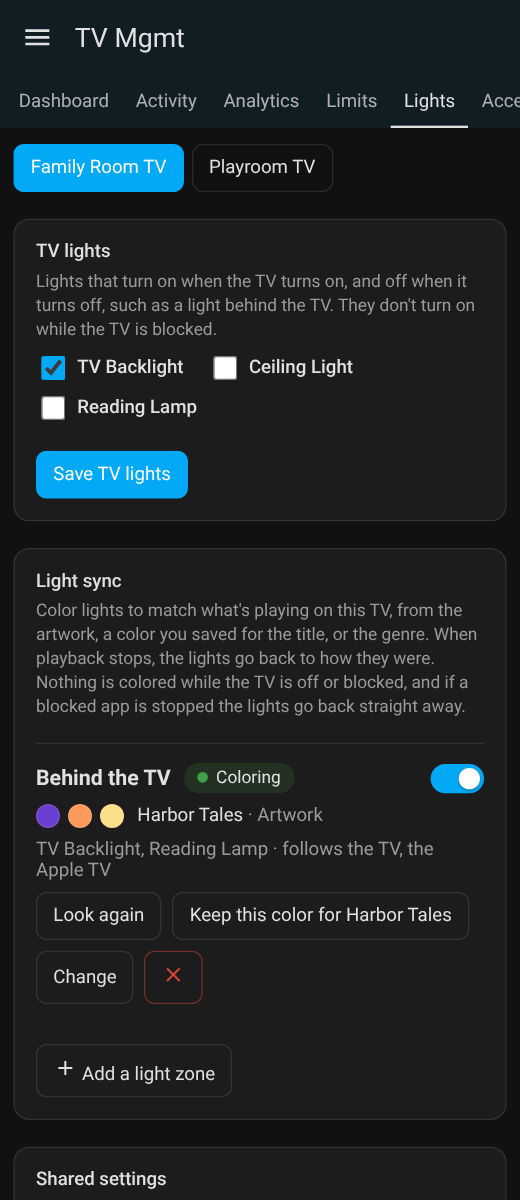
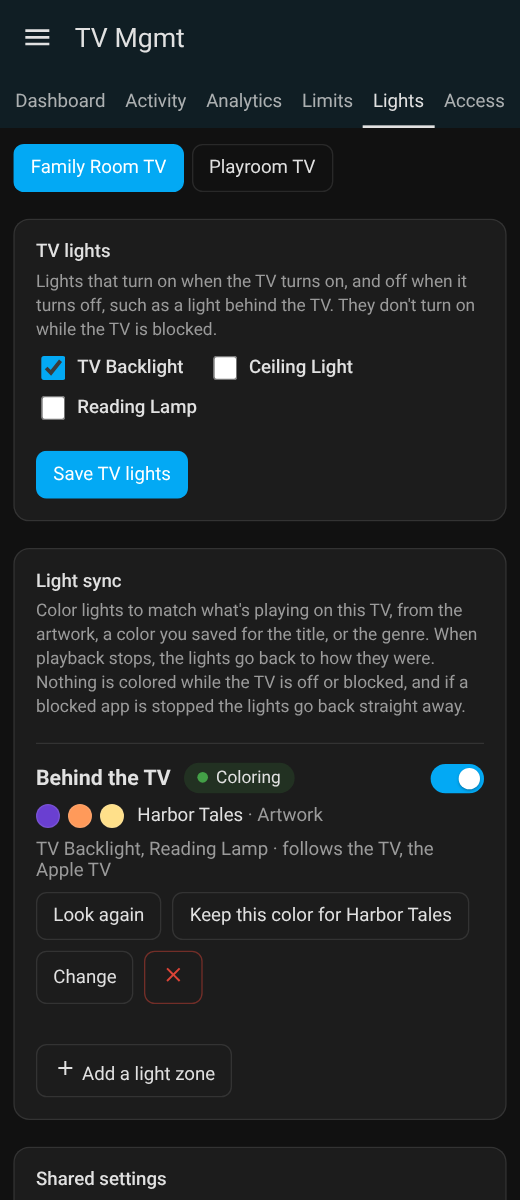
Fit all six tabs on a phone; retake every README screenshot
On phones the tabs now share the width with tighter padding, so Dashboard
through Access fit from 375px wide; narrower they still scroll, and the open
tab is scrolled into view. shoot.py --docs retakes panel-<tab>.png for all six
tabs the same way (admin view, 390x900 at 4/3), and the README shows them in
two rows: light theme, then dark.

Changed region(s): [[0.4, 0.0617, 1.0, 0.0925], [0.0308, 0.0617, 0.2154, 0.0925], [0.2462, 0.0617, 0.3692, 0.0925]]

diff --git a/custom_components/tv_mgmt/frontend/tv-mgmt-panel.js b/custom_components/tv_mgmt/frontend/tv-mgmt-panel.js
@@ -300,7 +300,8 @@ nav button {
   border-bottom: 2px solid transparent; white-space: nowrap; font-size: 14px;
 }
 nav button[aria-selected="true"] { opacity: 1; border-bottom-color: currentColor; }
-@media (max-width: 420px) { nav { gap: 0; padding: 0 4px; } nav button { padding: 12px 10px 10px; } }
+/* Phones: tighter tabs share the width, so all six fit from 375px; narrower, they scroll. */
+@media (max-width: 420px) { nav { gap: 0; padding: 0 4px; } nav button { flex: 1 0 auto; padding: 12px 6px 10px; } }
 nav button:focus-visible, .btn:focus-visible, .seg button:focus-visible, .chip:focus-visible, input:focus-visible {
   outline: 2px solid var(--primary-color); outline-offset: 2px;
 }
@@ -984,6 +985,14 @@ class TvMgmtPanel extends HTMLElement {
     const main = this.shadowRoot.getElementById("main");
     if (!main) return;
     this.shadowRoot.querySelectorAll("nav button").forEach((b) => b.setAttribute("aria-selected", String(b.dataset.tab === this._tab)));
+    if (this._navShown !== this._tab) {
+      // Where the tabs scroll (narrow phones), keep the open one in view.
+      const current = this.shadowRoot.querySelector(`nav button[data-tab="${this._tab}"]`);
+      if (current) {
+        this._navShown = this._tab;
+        current.scrollIntoView({ block: "nearest", inline: "nearest" });
+      }
+    }
 
     let body;
     if (this._tab === "access") {

diff --git a/scripts/panel-preview/shoot.py b/scripts/panel-preview/shoot.py
@@ -11,10 +11,10 @@ empty=1 (no TVs), denied=1 (a user without access), nohome=1 (no whole-home limi
 request stays loading) and loading=tabs (the TVs load, each tab's data stays
 loading), to see the placeholders; saved as loading-*.png.
 
-With --docs, it instead refreshes the README screenshot of the Lights tab,
-docs/images/panel-lights.png: dark theme, 390x900 at 4/3 scale (520x1200),
-like the other docs/images/panel-*.png. Set CHROME to a Chrome or Chromium
-binary to use it instead of Playwright's own.
+With --docs, it instead refreshes the README screenshots, docs/images/panel-<tab>.png
+for every tab (DOC_SHOTS): an admin's view, so all six tabs show, at 390x900 and 4/3
+scale (520x1200). Set CHROME to a Chrome or Chromium binary to use it instead of
+Playwright's own.
 """
 
 from functools import partial
@@ -36,19 +36,37 @@ class _QuietHandler(SimpleHTTPRequestHandler):
 TABS = ["dashboard", "activity", "analytics", "limits", "lights", "access"]
 SIZES = {"phone": (390, 900), "desktop": (1440, 1000)}
 DOCS = ROOT / "docs" / "images"
+# README screenshots, docs/images/panel-<tab>.png: the first row light, the
+# second dark, so both themes show.
+DOC_SHOTS = {
+    "dashboard": "light", "activity": "light", "analytics": "light",
+    "limits": "dark", "lights": "dark", "access": "dark",
+}
 
 
 def _docs(browser, base: str, errors: list[str]) -> None:
-    """Save the Lights tab as it appears in the README."""
-    page = browser.new_page(viewport={"width": 390, "height": 900}, device_scale_factor=4 / 3)
-    page.on("pageerror", lambda e: errors.append(str(e)))
-    page.on("console", lambda m: errors.append(m.text) if m.type == "error" else None)
-    page.goto(f"{base}?theme=dark")
-    page.wait_for_timeout(1200)
-    page.locator("tv-mgmt-panel").locator("nav button[data-tab='lights']").click()
-    page.wait_for_timeout(800)
-    page.screenshot(path=DOCS / "panel-lights.png")
-    page.close()
+    """Save each tab as it appears in the README: a 390x900 phone at 4/3 scale (520x1200)."""
+    for tab, theme in DOC_SHOTS.items():
+        page = browser.new_page(viewport={"width": 390, "height": 900}, device_scale_factor=4 / 3)
+        page.on("pageerror", lambda e: errors.append(str(e)))
+        page.on("console", lambda m: errors.append(m.text) if m.type == "error" else None)
+        page.goto(f"{base}?theme={theme}")
+        # The first TV open, as on the dashboard after tapping it.
+        page.evaluate("localStorage.setItem('tv-mgmt-expanded', JSON.stringify(['fam']))")
+        page.reload()
+        page.wait_for_timeout(1200)
+        panel = page.locator("tv-mgmt-panel")
+        panel.locator(f"nav button[data-tab='{tab}']").click()
+        page.wait_for_timeout(800)
+        width = page.evaluate("document.documentElement.scrollWidth")
+        nav = page.evaluate(
+            "(() => { const n = document.querySelector('tv-mgmt-panel').shadowRoot.querySelector('nav');"
+            " return n.scrollWidth - n.clientWidth; })()"
+        )
+        if width > 390 or nav > 0:
+            errors.append(f"docs {tab}: page or tabs scroll sideways ({width}px, tabs +{nav}px)")
+        page.screenshot(path=DOCS / f"panel-{tab}.png")
+        page.close()
 
 
 def main() -> int:

diff --git a/CLAUDE.md b/CLAUDE.md
@@ -63,7 +63,7 @@ pytest -q
 - To try the next Home Assistant before it's released, clone `home-assistant/core`, install its `pyproject.toml` requirements and then the clone with `--no-deps` into the Python 3.14 venv, and run pytest from Python with Home Assistant imported first (it aliases `httpx`): `python -c "import homeassistant, sys, pytest; sys.exit(pytest.main(['tests', '-q']))"`.
 - `tests/test_*.py` cover the pure modules; `tests/ha/` runs inside Home Assistant. `tests/ha/form.py` serializes a form's schema on any Home Assistant version.
 - The message tests need `ffmpeg` on the PATH. CI uses the static build from the `imageio-ffmpeg` package rather than apt, which took up to 15 minutes.
-- For panel changes, run `python scripts/panel-preview/shoot.py <out dir>` (needs Playwright with Chromium) and look at the screenshots. It fails on console errors or sideways scrolling. Add sample data to `scripts/panel-preview/index.html` when a feature needs it.
+- For panel changes, run `python scripts/panel-preview/shoot.py <out dir>` (needs Playwright with Chromium) and look at the screenshots. It fails on console errors or sideways scrolling. `shoot.py --docs` retakes the README screenshots, `docs/images/panel-<tab>.png`, the same way for every tab; rerun it when a tab's look changes. Add sample data to `scripts/panel-preview/index.html` when a feature needs it.
 
 ## Writing
 

diff --git a/README.md b/README.md
@@ -84,7 +84,11 @@ TV Mgmt adds a **TV Mgmt** entry to the Home Assistant sidebar for admins, and f
 <img src="docs/images/panel-dashboard.png" alt="Dashboard: each TV drawn as a screen showing its current input, with time used and parent controls" width="240">
 <img src="docs/images/panel-activity.png" alt="Activity: a 24-hour strip of when the TV was on, by input, above a log of what happened" width="240">
 <img src="docs/images/panel-analytics.png" alt="Analytics: screen time per day against the daily limit" width="240">
+</p>
+<p>
+<img src="docs/images/panel-limits.png" alt="Limits: a TV's daily screen time, warning and quiet windows such as bedtime and school" width="240">
 <img src="docs/images/panel-lights.png" alt="Lights: the lights that follow the TV, and a light sync zone coloring its lights from the artwork of what's playing" width="240">
+<img src="docs/images/panel-access.png" alt="Access: choosing who besides admins can use TV Mgmt" width="240">
 </p>
 
 *Screenshots use sample data.*
